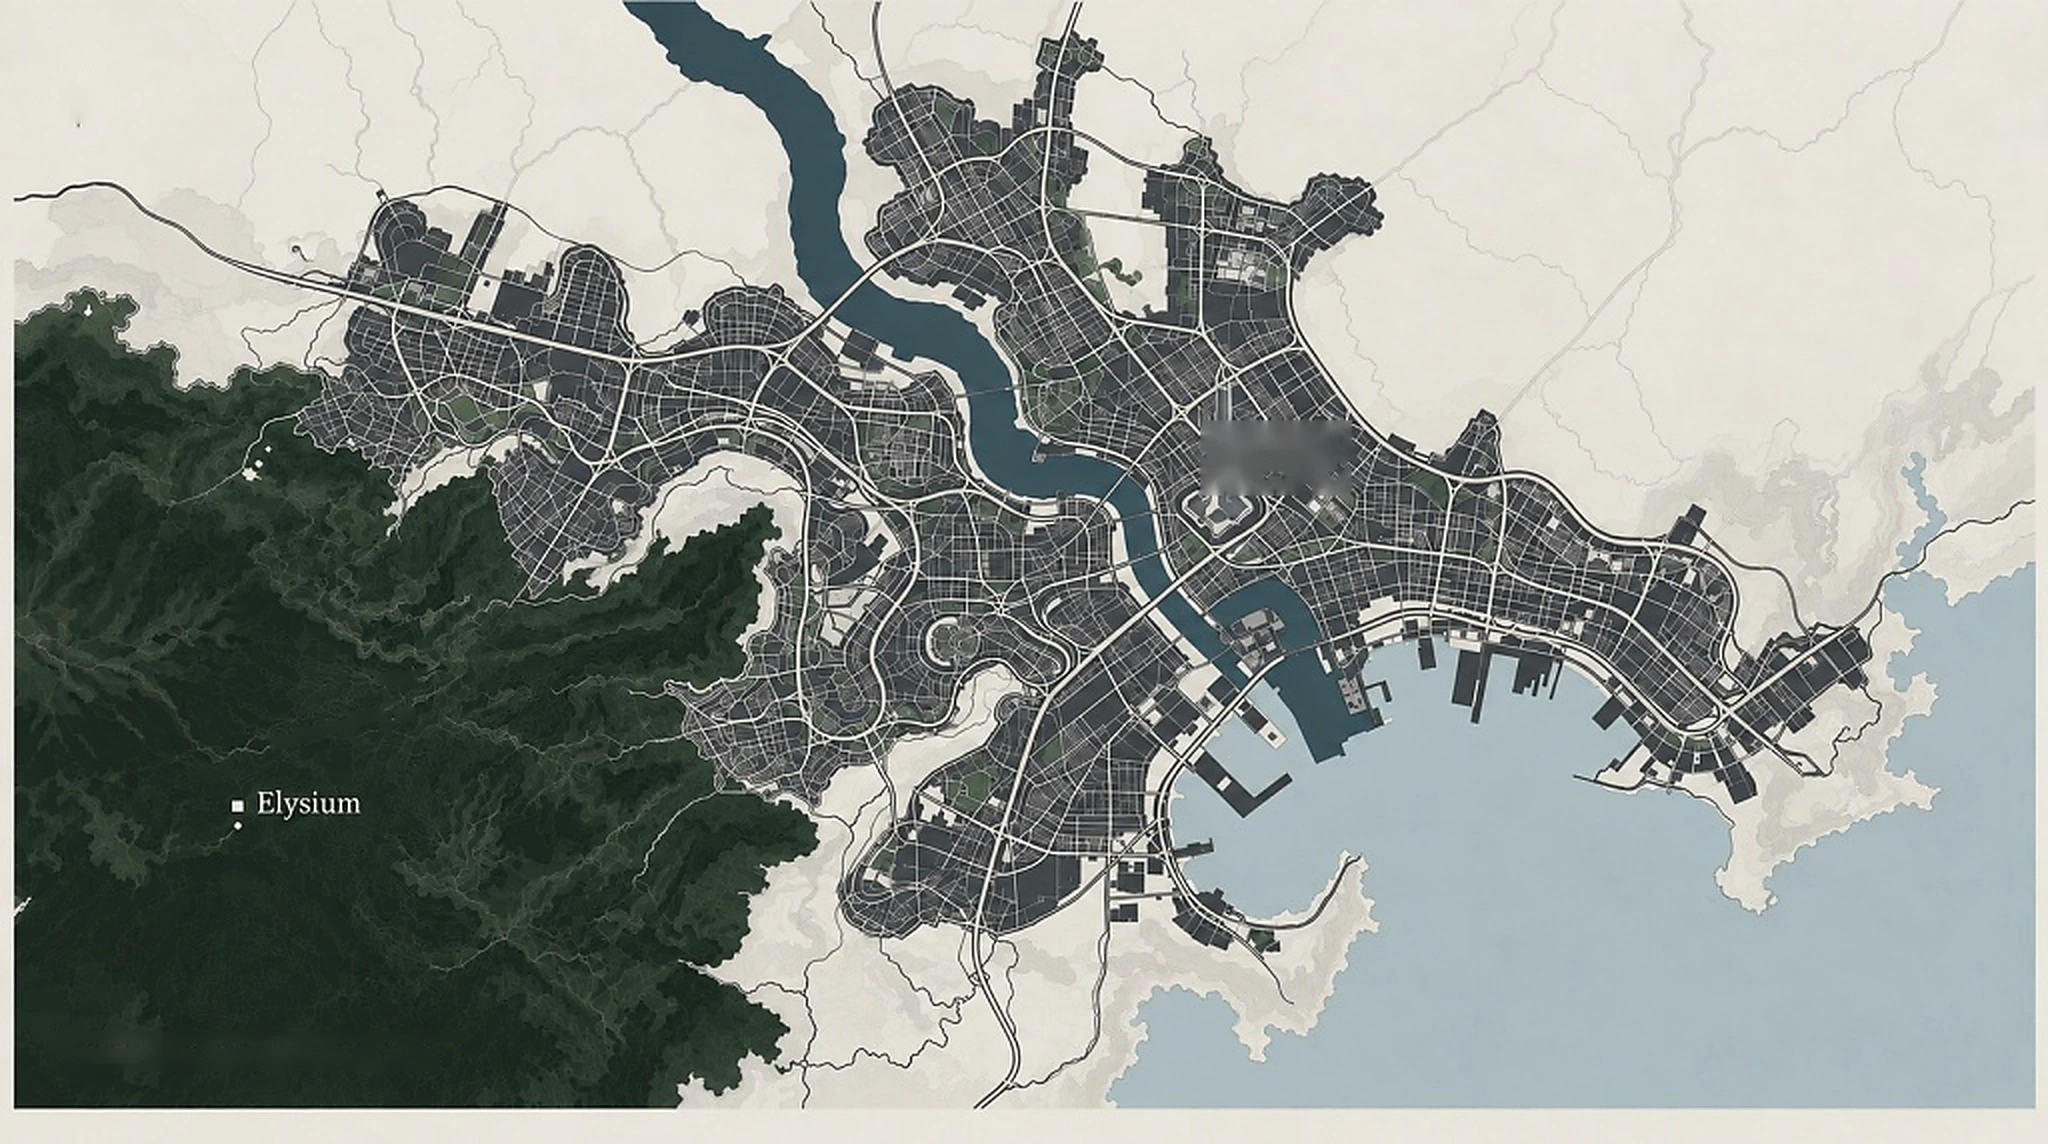
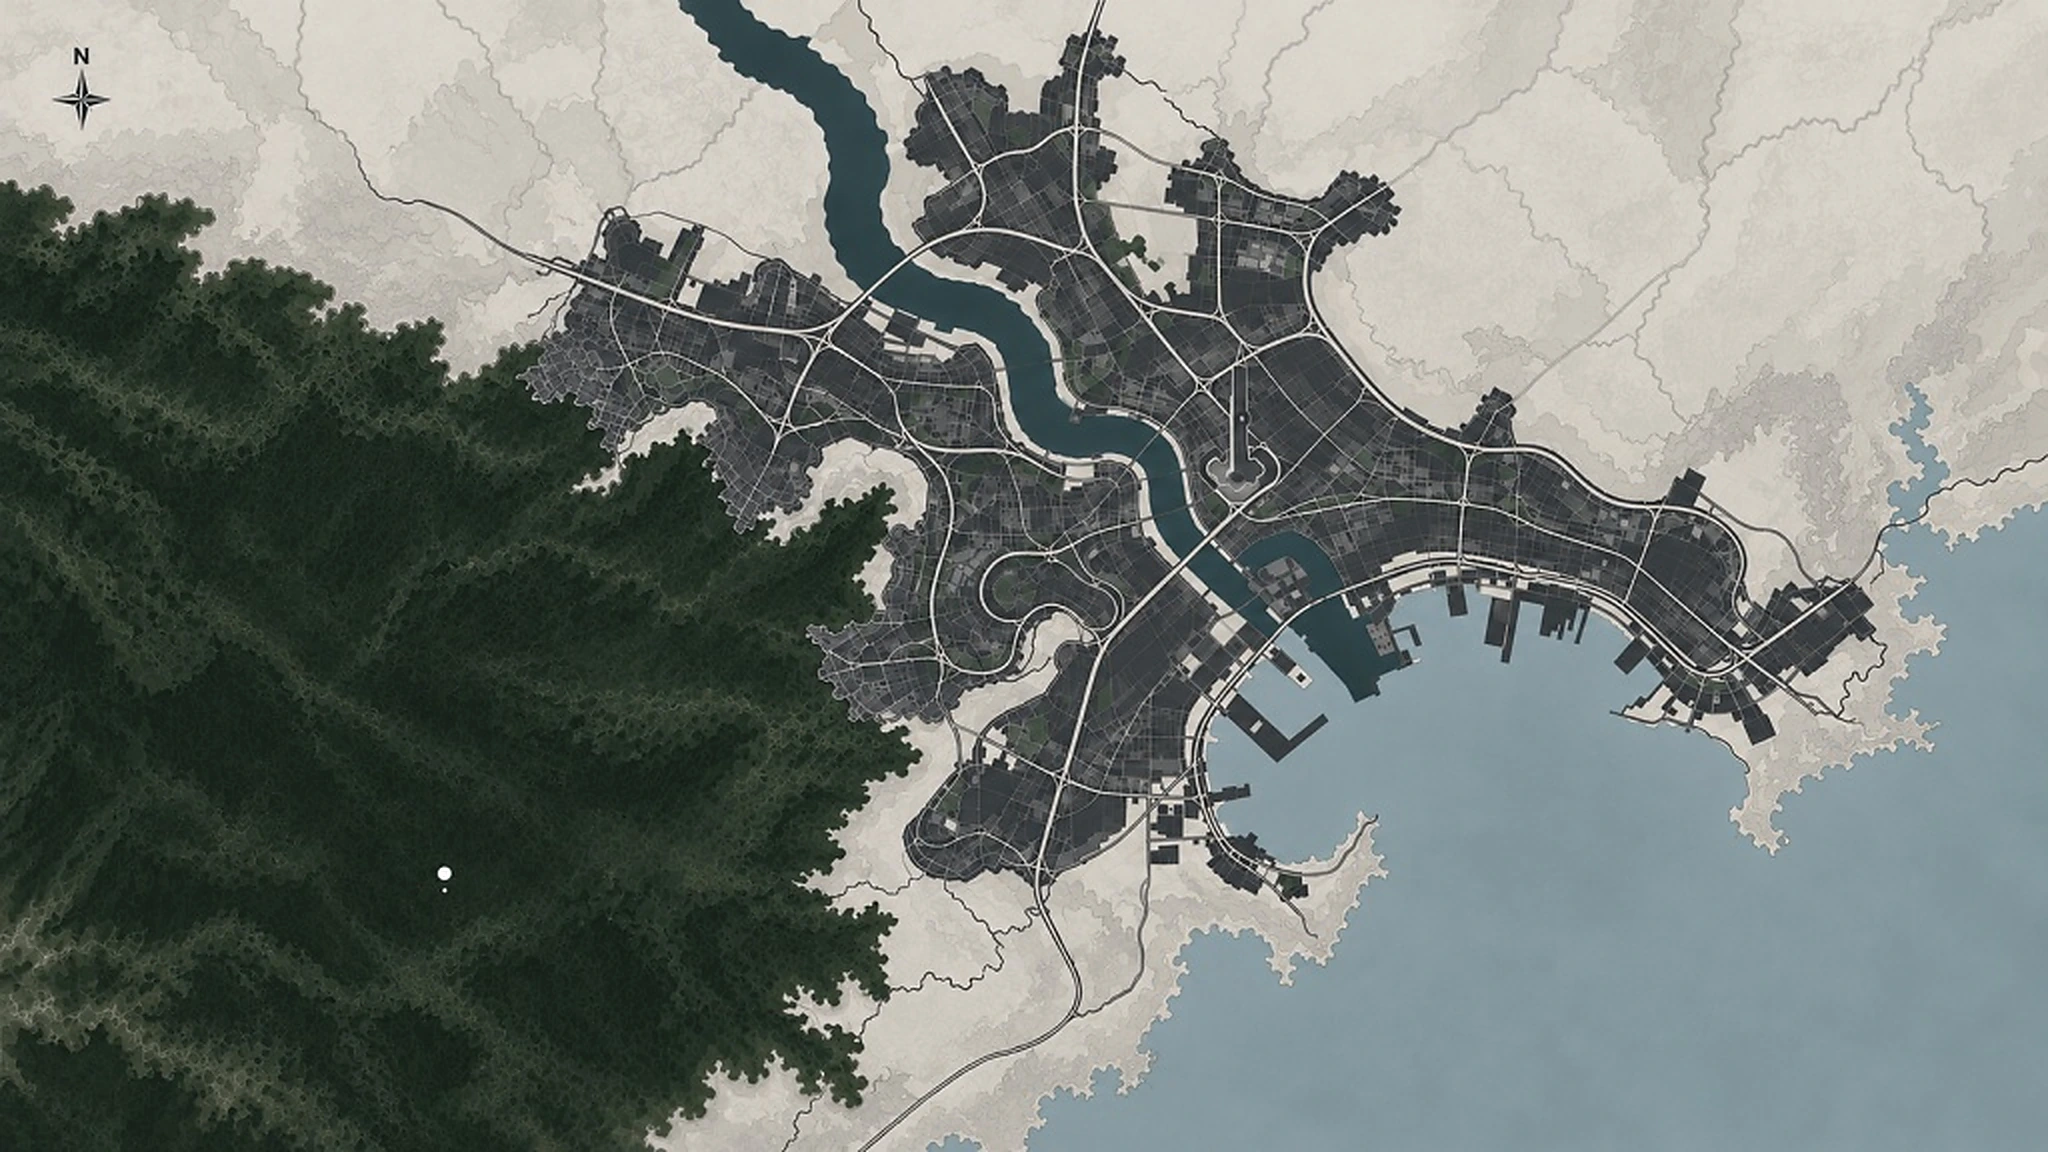
Add files via upload

diff --git a/index.html b/index.html
@@ -41,36 +41,45 @@
     <div class="map-heading">
      <div><span class="eyebrow">CARTOGRAFÍA REGIONAL / DISTANCIA EXTERIOR</span><h2>PERÍMETRO · ELYSIUM / NEXUS</h2></div>
      <div class="regional-tools">
-      <button type="button" class="regional-tool-btn active" id="toggleRouteLine">TRAZAR RUTA</button>
+      <button type="button" class="regional-tool-btn active" id="toggleRouteLine">LÍNEAS DE DISTANCIA</button>
       <button type="button" class="regional-tool-btn" id="openDistanceTool">MEDIR DISTANCIA</button>
      </div>
     </div>
     <div class="regional-stage" id="regionalStage">
      <img src="regional-map.webp" alt="Mapa regional de Elysium y Nexus" class="regional-img" loading="lazy">
      <svg class="regional-svg" id="regionalSvg" viewBox="0 0 1000 560" preserveAspectRatio="none" aria-hidden="true">
-      <line x1="132.8" y1="350.5" x2="596.7" y2="224.2" class="route-line visible" id="routeBeam"></line>
-      <circle cx="132.8" cy="350.5" r="14" class="route-pulse"></circle>
-      <circle cx="596.7" cy="224.2" r="14" class="route-pulse"></circle>
+      <!-- Línea 1: Elysium -> Orilla de la ciudad (85 km de distancia) -->
+      <line x1="216.6" y1="424.2" x2="422.0" y2="314.0" class="route-line seg-city visible" id="routeCityEdge"></line>
+      <!-- Línea 2: Orilla de la ciudad -> Nexus (34 km de distancia) -->
+      <line x1="422.0" y1="314.0" x2="597.0" y2="220.1" class="route-line seg-nexus visible" id="routeToNexus"></line>
+      <!-- Marcador de orilla de la ciudad -->
+      <circle cx="422.0" cy="314.0" r="4.5" class="edge-node"></circle>
+      <circle cx="216.6" cy="424.2" r="13" class="route-pulse"></circle>
+      <circle cx="597.0" cy="220.1" r="13" class="route-pulse"></circle>
      </svg>
-     <button type="button" class="geo-pin pin-elysium" data-geo="elysium" style="left:13.28%;top:62.59%" aria-label="Ubicación Elysium">
+     <span class="dist-badge badge-city visible" id="badgeCity" style="left:31.93%;top:63.23%">85 km de distancia</span>
+     <span class="dist-badge badge-nexus visible" id="badgeNexus" style="left:50.95%;top:45.00%">34 km de distancia</span>
+
+     <button type="button" class="geo-pin pin-elysium" data-geo="elysium" style="left:21.66%;top:75.75%" aria-label="Ubicación Elysium">
       <span class="geo-ring"></span><span class="geo-dot"></span>
      </button>
-     <button type="button" class="geo-pin pin-nexus" data-geo="nexus" style="left:59.67%;top:40.03%" aria-label="Ubicación Nexus">
+     <button type="button" class="geo-pin pin-nexus" data-geo="nexus" style="left:59.70%;top:39.30%" aria-label="Ubicación Nexus">
       <span class="geo-ring"></span><span class="geo-dot"></span>
      </button>
+
      <div class="geo-card" id="geoCard" role="region" aria-live="polite">
       <button type="button" class="geo-card-close" id="geoCardClose" aria-label="Cerrar">×</button>
       <span class="geo-kicker" id="geoKicker">PUNTO SELECCIONADO</span>
       <h3 id="geoTitle">Elysium</h3>
-      <p id="geoDesc">Refugio subterráneo independiente oculto en la zona boscosa, a 85 km del límite urbano y fuera de la red de Nexus.</p>
-      <div class="geo-metric" id="geoMetric">DISTANCIA AL LÍMITE URBANO: 85 KM</div>
+      <p id="geoDesc">Refugio subterráneo oculto en el bosque, a 85 km de la orilla de la ciudad y fuera del alcance de Nexus.</p>
+      <div class="geo-metric" id="geoMetric">85 KM DE DISTANCIA A LA ORILLA DE LA CIUDAD</div>
      </div>
     </div>
     <div class="distance-inspector" id="distanceInspector">
-     <div class="dist-stat"><span>ORIGEN</span><strong>ELYSIUM</strong></div>
-     <div class="dist-stat"><span>DESTINO</span><strong>NEXUS</strong></div>
-     <div class="dist-stat"><span>LÍMITE URBANO</span><strong>85 KM</strong></div>
-     <div class="dist-stat"><span>TRAYECTO DIRECTO</span><strong id="directDistValue">112.4 KM</strong></div>
+     <div class="dist-stat"><span>ORILLA DE LA CIUDAD</span><strong>85 KM DE DISTANCIA</strong></div>
+     <div class="dist-stat"><span>HASTA NEXUS</span><strong>34 KM DE DISTANCIA</strong></div>
+     <div class="dist-stat"><span>RECORRIDO TOTAL</span><strong>119 KM</strong></div>
+     <div class="dist-stat"><span>PUNTOS</span><strong>ELSYIUM · NEXUS</strong></div>
     </div>
    </div>
   </section>

diff --git a/app.js b/app.js
@@ -768,20 +768,20 @@ $$('.layer-btn').forEach(b=>b.addEventListener('click',()=>{$$('.layer-btn').for
 $('#resetView').addEventListener('click',()=>{mainScene?.setLayer('both');homeScene?.setLayer('both');$$('.layer-btn').forEach(x=>x.classList.toggle('active',x.dataset.layer==='both'))});
 $('#toggleLabels').addEventListener('click',e=>{e.currentTarget.classList.toggle('selected');const v=e.currentTarget.classList.contains('selected');mainScene?.setLabels(v);homeScene?.setLabels(v)});
 
-// Regional map pins (ONLY Elysium and Nexus) + external distance measurement tool
+// Regional map pins (ONLY Elysium and Nexus) + two-segment distance lines
 (()=>{
  const geoData={
   elysium:{
-   kicker:'UBICACIÓN / BOSQUE EXTERIOR',
+   kicker:'UBICACIÓN / BOSQUE',
    title:'Elysium',
-   desc:'Refugio subterráneo oculto y autosuficiente en el macizo boscoso, a 85 km del límite de la ciudad.',
-   metric:'DISTANCIA AL LÍMITE URBANO: 85 KM'
+   desc:'Refugio subterráneo oculto en el bosque, a 85 km de la orilla de la ciudad.',
+   metric:'85 KM DE DISTANCIA A LA ORILLA · +34 KM A NEXUS'
   },
   nexus:{
    kicker:'NÚCLEO URBANO / RED EXTERNA',
    title:'Nexus',
-   desc:'Infraestructura corporativa y red central situada en el núcleo urbano junto al río y la costa.',
-   metric:'DISTANCIA DESDE ELYSIUM: 85 KM AL LÍMITE · 112.4 KM AL NÚCLEO'
+   desc:'Edificio y red central en el interior de la ciudad, a 34 km desde la orilla urbana.',
+   metric:'34 KM DE DISTANCIA DESDE LA ORILLA · 119 KM TOTAL'
   }
  };
  const card=$('#geoCard'), closeBtn=$('#geoCardClose');
@@ -799,17 +799,20 @@ $('#toggleLabels').addEventListener('click',e=>{e.currentTarget.classList.toggle
  });
  closeBtn?.addEventListener('click',()=>{card.classList.remove('open');$$('.geo-pin').forEach(p=>p.classList.remove('active'))});
 
- const routeBtn=$('#toggleRouteLine'), beam=$('#routeBeam');
+ const routeBtn=$('#toggleRouteLine'), lines=$$('.route-line'), badges=$$('.dist-badge');
  routeBtn?.addEventListener('click',()=>{
   routeBtn.classList.toggle('active');
-  beam?.classList.toggle('visible',routeBtn.classList.contains('active'));
+  const show=routeBtn.classList.contains('active');
+  lines.forEach(l=>l.classList.toggle('visible',show));
+  badges.forEach(b=>b.classList.toggle('visible',show));
  });
 
  const distBtn=$('#openDistanceTool'), inspector=$('#distanceInspector');
  distBtn?.addEventListener('click',()=>{
   distBtn.classList.toggle('active');
   inspector?.classList.toggle('highlighted',distBtn.classList.contains('active'));
-  beam?.classList.add('visible');
+  lines.forEach(l=>l.classList.add('visible'));
+  badges.forEach(b=>b.classList.add('visible'));
   routeBtn?.classList.add('active');
   if(!card?.classList.contains('open'))showGeo('elysium');
  });

diff --git a/style.css b/style.css
@@ -46,3 +46,12 @@
 .dist-stat span{display:block;font:7px var(--mono);letter-spacing:.12em;color:#6f8f92}
 .dist-stat strong{display:block;margin-top:4px;font:500 13px var(--mono);color:#d8f2ef}
 @media(max-width:760px){.distance-inspector{grid-template-columns:repeat(2,1fr)}.regional-img{max-height:300px}}
+
+.route-line.seg-city{stroke:#f59e42;stroke-width:2.5;stroke-dasharray:6 4}
+.route-line.seg-nexus{stroke:#78dce0;stroke-width:2.5;stroke-dasharray:6 4}
+.edge-node{fill:#ffbe76;stroke:#071116;stroke-width:1.4}
+.dist-badge{position:absolute;z-index:3;transform:translate(-50%,-50%);padding:3px 7px;border-radius:4px;background:rgba(6,17,22,.88);backdrop-filter:blur(8px);font:700 8px var(--mono);letter-spacing:.06em;white-space:nowrap;pointer-events:none;opacity:0;transition:opacity .25s}
+.dist-badge.visible{opacity:.96}
+.badge-city{border:1px solid rgba(245,158,66,.55);color:#ffbe76}
+.badge-nexus{border:1px solid rgba(120,220,224,.55);color:#9bf5f2}
+@media(max-width:760px){.dist-badge{font-size:6.5px;padding:2px 5px}}
